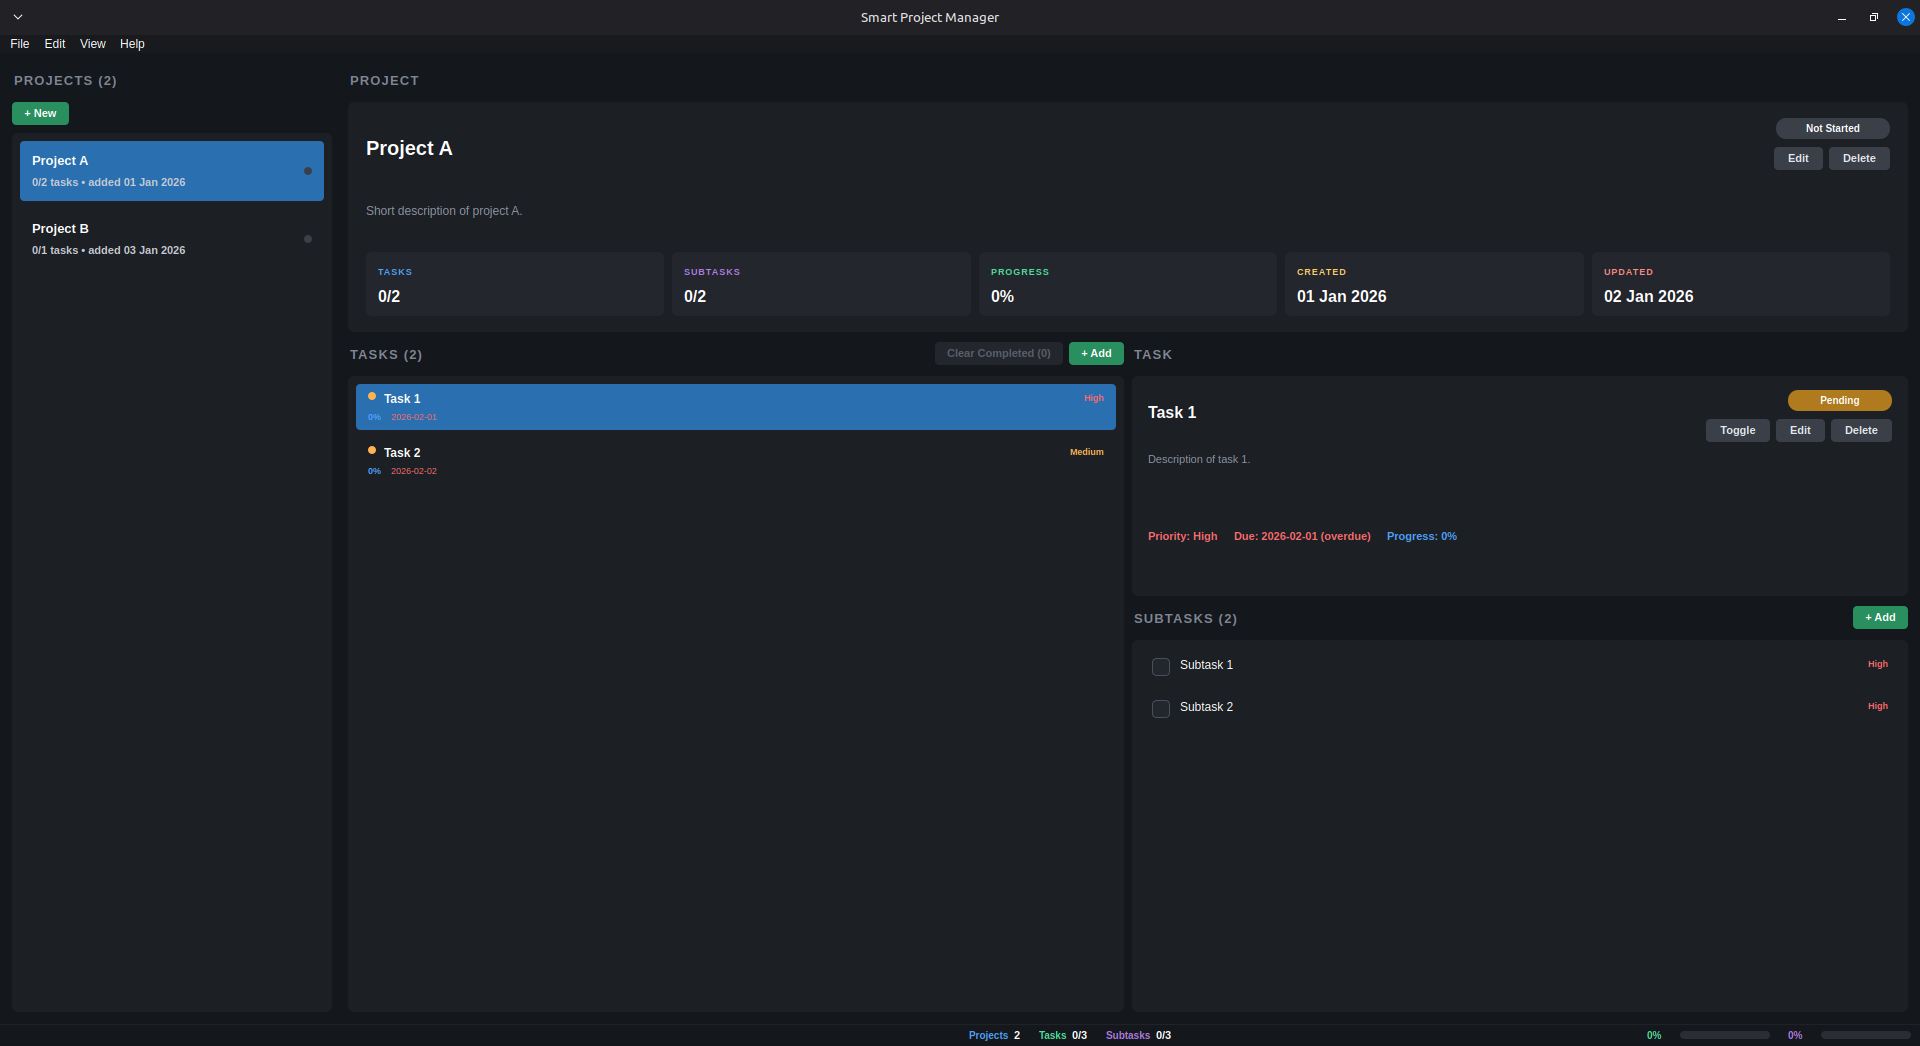
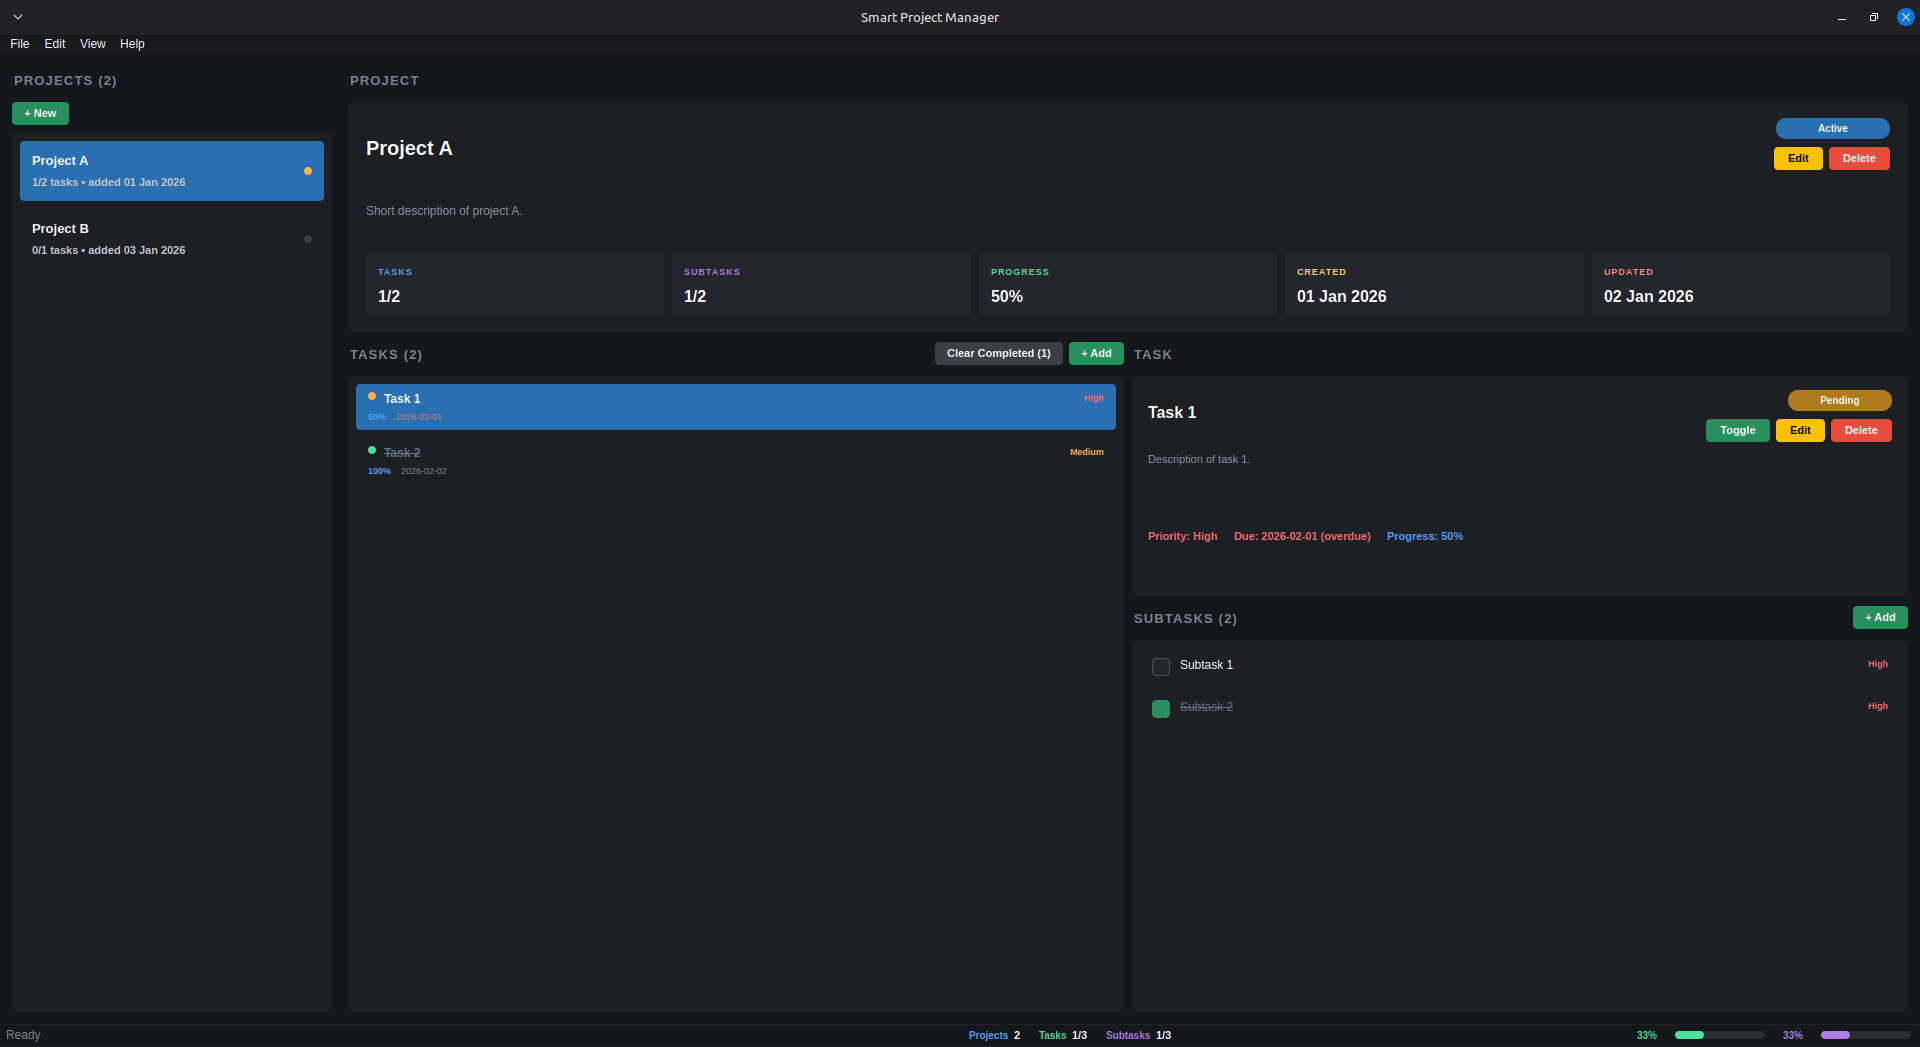
feat: color Edit (yellow) and Delete (red) buttons

diff --git a/smart_project_manager/ui/widgets/task_header_widget.py b/smart_project_manager/ui/widgets/task_header_widget.py
@@ -1,3 +1,4 @@
+# Copyright (©) 2026, Alexander Suvorov. All rights reserved.
 from datetime import datetime
 
 from PyQt5.QtCore import Qt
@@ -75,15 +76,21 @@ class TaskHeaderWidget(QFrame):
         buttons_line.setSpacing(6)
         buttons_line.setAlignment(Qt.AlignRight)
 
-        self.btn_toggle = self._make_button("Toggle")
+        self.btn_toggle = self._make_button(
+            "Toggle", "#2a8f5e", "#34a56e", "#ffffff"
+        )
         self.btn_toggle.clicked.connect(self.on_toggle_clicked)
         buttons_line.addWidget(self.btn_toggle)
 
-        self.btn_edit = self._make_button("Edit")
+        self.btn_edit = self._make_button(
+            "Edit", "#FFC107", "#FFA000", "#000000"
+        )
         self.btn_edit.clicked.connect(self.on_edit_clicked)
         buttons_line.addWidget(self.btn_edit)
 
-        self.btn_delete = self._make_button("Delete")
+        self.btn_delete = self._make_button(
+            "Delete", "#e74c3c", "#c0392b", "#ffffff"
+        )
         self.btn_delete.clicked.connect(self.on_delete_clicked)
         buttons_line.addWidget(self.btn_delete)
 
@@ -120,30 +127,30 @@ class TaskHeaderWidget(QFrame):
 
         self.update_task(None, None)
 
-    def _make_button(self, text):
+    def _make_button(self, text, bg, bg_hover, fg):
         btn = QPushButton(text)
         btn.setCursor(Qt.PointingHandCursor)
         btn.setFlat(True)
-        btn.setStyleSheet("""
-            QPushButton {
-                background-color: #3a3f48;
-                color: #e6e9ee;
+        btn.setStyleSheet(f"""
+            QPushButton {{
+                background-color: {bg};
+                color: {fg};
                 font-weight: bold;
                 font-size: 11px;
                 padding: 5px 14px;
                 border: none;
                 border-radius: 4px;
-            }
-            QPushButton:hover {
-                background-color: #4a505b;
-            }
-            QPushButton:pressed {
-                background-color: #2f333a;
-            }
-            QPushButton:disabled {
+            }}
+            QPushButton:hover {{
+                background-color: {bg_hover};
+            }}
+            QPushButton:pressed {{
+                background-color: #23262c;
+            }}
+            QPushButton:disabled {{
                 background-color: #2a2d33;
                 color: #5a606b;
-            }
+            }}
         """)
         return btn
 

diff --git a/smart_project_manager/ui/widgets/project_progress_widget.py b/smart_project_manager/ui/widgets/project_progress_widget.py
@@ -3,8 +3,7 @@ from datetime import datetime
 
 from PyQt5.QtCore import Qt
 from PyQt5.QtWidgets import (
-    QFrame, QLabel, QVBoxLayout, QHBoxLayout, QPushButton, QSizePolicy,
-    QGridLayout
+    QFrame, QLabel, QVBoxLayout, QHBoxLayout, QPushButton, QSizePolicy
 )
 
 
@@ -94,10 +93,14 @@ class ProjectProgressWidget(QFrame):
         buttons_line.setSpacing(6)
         buttons_line.setAlignment(Qt.AlignRight)
 
-        self.btn_edit_project = self._make_button("Edit")
+        self.btn_edit_project = self._make_button(
+            "Edit", "#FFC107", "#FFA000", "#000000"
+        )
         buttons_line.addWidget(self.btn_edit_project)
 
-        self.btn_delete_project = self._make_button("Delete")
+        self.btn_delete_project = self._make_button(
+            "Delete", "#e74c3c", "#c0392b", "#ffffff"
+        )
         buttons_line.addWidget(self.btn_delete_project)
 
         right_column.addLayout(buttons_line)
@@ -126,30 +129,30 @@ class ProjectProgressWidget(QFrame):
 
         layout.addLayout(tiles_line)
 
-    def _make_button(self, text):
+    def _make_button(self, text, bg, bg_hover, fg):
         btn = QPushButton(text)
         btn.setCursor(Qt.PointingHandCursor)
         btn.setFlat(True)
-        btn.setStyleSheet("""
-            QPushButton {
-                background-color: #3a3f48;
-                color: #e6e9ee;
+        btn.setStyleSheet(f"""
+            QPushButton {{
+                background-color: {bg};
+                color: {fg};
                 font-weight: bold;
                 font-size: 11px;
                 padding: 5px 14px;
                 border: none;
                 border-radius: 4px;
-            }
-            QPushButton:hover {
-                background-color: #4a505b;
-            }
-            QPushButton:pressed {
-                background-color: #2f333a;
-            }
-            QPushButton:disabled {
+            }}
+            QPushButton:hover {{
+                background-color: {bg_hover};
+            }}
+            QPushButton:pressed {{
+                background-color: #23262c;
+            }}
+            QPushButton:disabled {{
                 background-color: #2a2d33;
                 color: #5a606b;
-            }
+            }}
         """)
         return btn
 

diff --git a/smart_project_manager/ui/dialogs/about_dialog.py b/smart_project_manager/ui/dialogs/about_dialog.py
@@ -80,9 +80,10 @@ class AboutDialog(QDialog):
             <li>Projects with name, description and an optional link</li>
             <li>Tasks with priority and due date</li>
             <li>Simplified subtasks: title and priority only</li>
-            <li>Automatic completion when all subtasks are completed</li>
+            <li>Manual task completion, no auto-complete from subtasks</li>
             <li>Length limits with live counters in dialogs</li>
             <li>JSON export and import</li>
+            <li>Export a single project to a Markdown document</li>
             <li>Stable selection across all CRUD operations</li>
             <li>Dark theme optimized for extended use</li>
             </ul>"""
